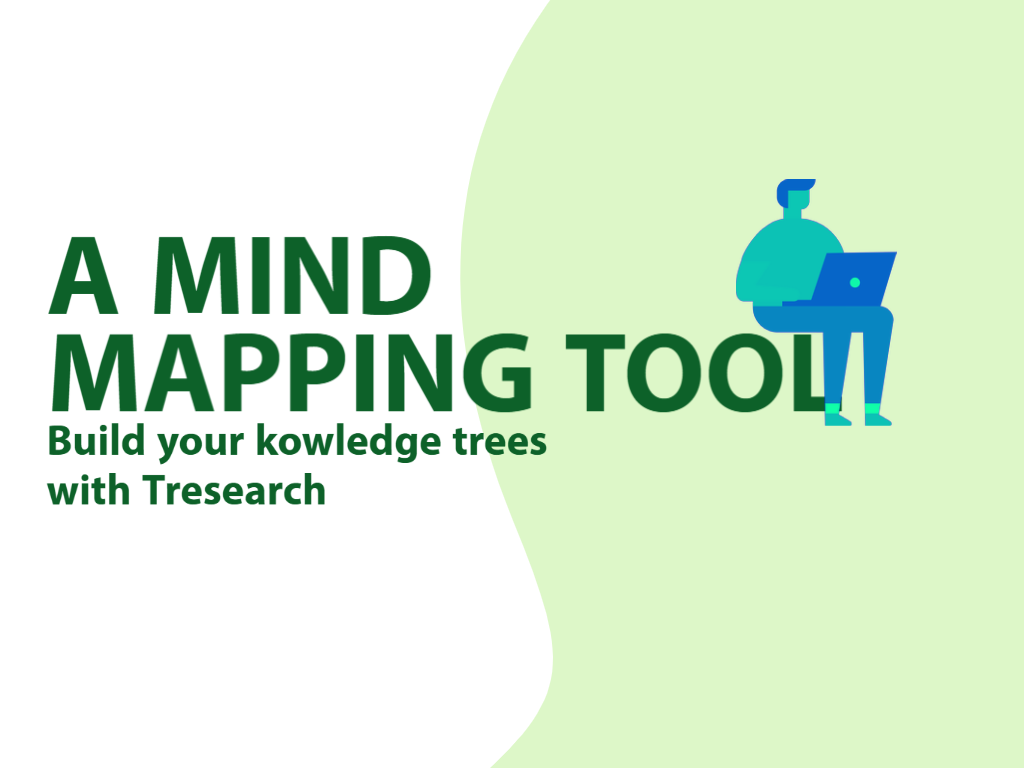
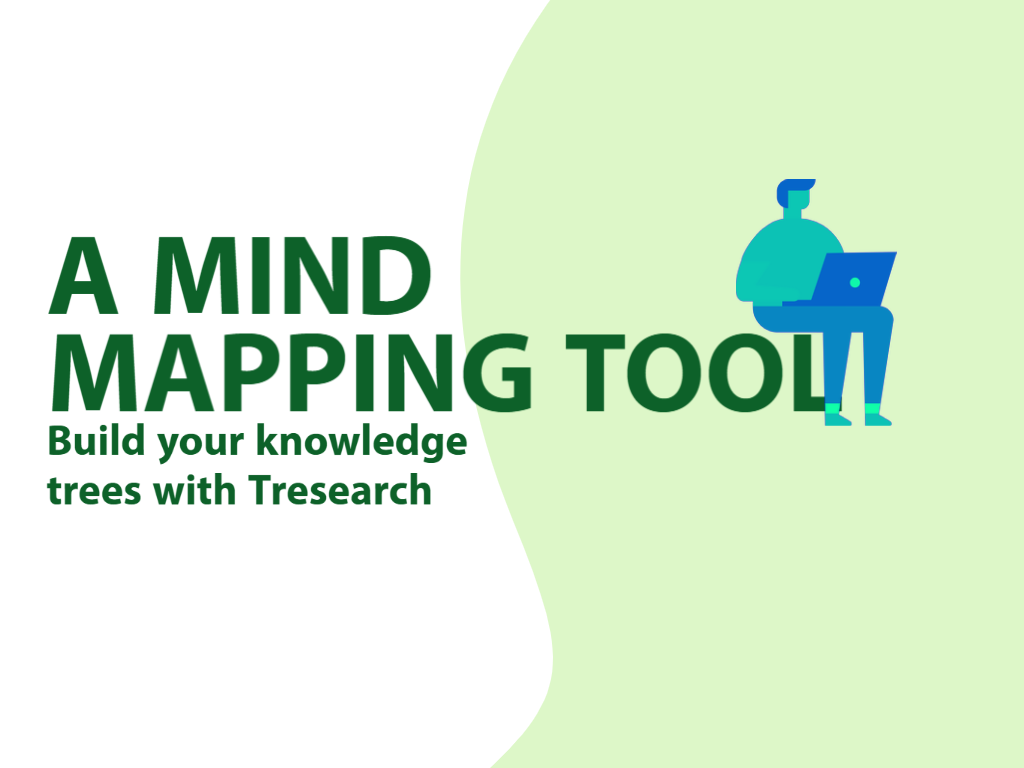
Fixed spelling lol

Changed region(s): [[0.0312, 0.5312, 0.5312, 0.6562]]

diff --git a/CECS 491B/TrialByFire.Tresearch/TrialByFire.Tresearch.Tests/IntegrationTests/Recovery/RecoveryServiceShould.cs b/CECS 491B/TrialByFire.Tresearch/TrialByFire.Tresearch.Tests/IntegrationTests/Recovery/RecoveryServiceShould.cs
@@ -11,8 +11,8 @@ namespace TrialByFire.Tresearch.Tests.IntegrationTests.Recovery
         public RecoveryServiceShould() : base() { }
 
         [Theory]
-        [InlineData("IntegrationRecoveryService1@gmail.com", "200: Server: success", "user")]
-        [InlineData("IntegrationRecoveryService2@gmail.com", "200: Server: success", "user")]
+        [InlineData("IntegrationRecoveryService1@gmail.com", "200: Server: success", "user")]               
+        [InlineData("IntegrationRecoveryService2@gmail.com", "200: Server: success", "admin")]
         public async Task GetAccountAsync(string username, string statusCode, string authorizationLevel)
         {
             //Arrange
